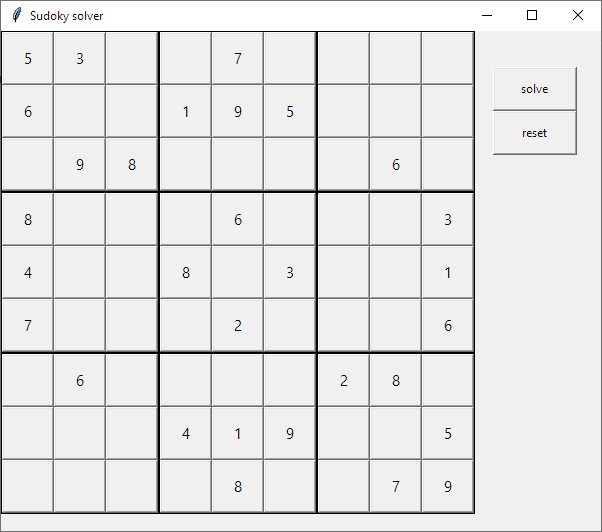
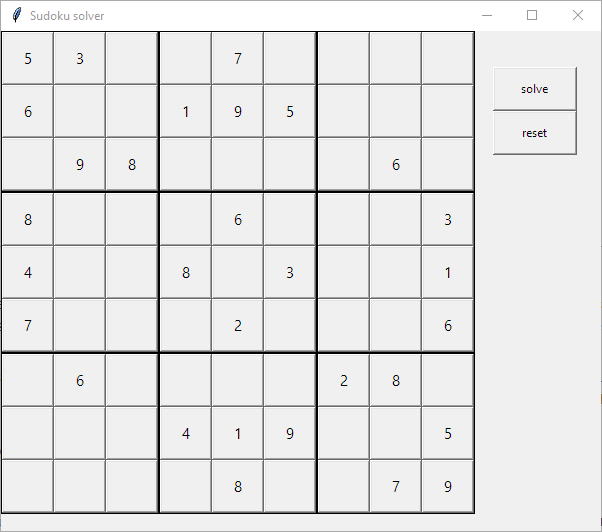
typo

Changed region(s): [[0.0, 0.0, 1.0, 1.0], [0.0, 0.0, 0.1794, 0.0602], [0.8671, 0.0, 0.897, 0.0301]]

diff --git a/SudokuSolver.py b/SudokuSolver.py
@@ -18,7 +18,7 @@ current_matrix = np.array(initial_matrix, copy=True)
 boxes = []
 buttons = [[None for y in range(9)] for x in range(9)]
 
-app = App(title="Sudoky solver", layout="grid", height=500, width = 600)
+app = App(title="Sudoku solver", layout="grid", height=500, width = 600)
 
 for mx in range(0, 3):
     for my in range(0, 3):
